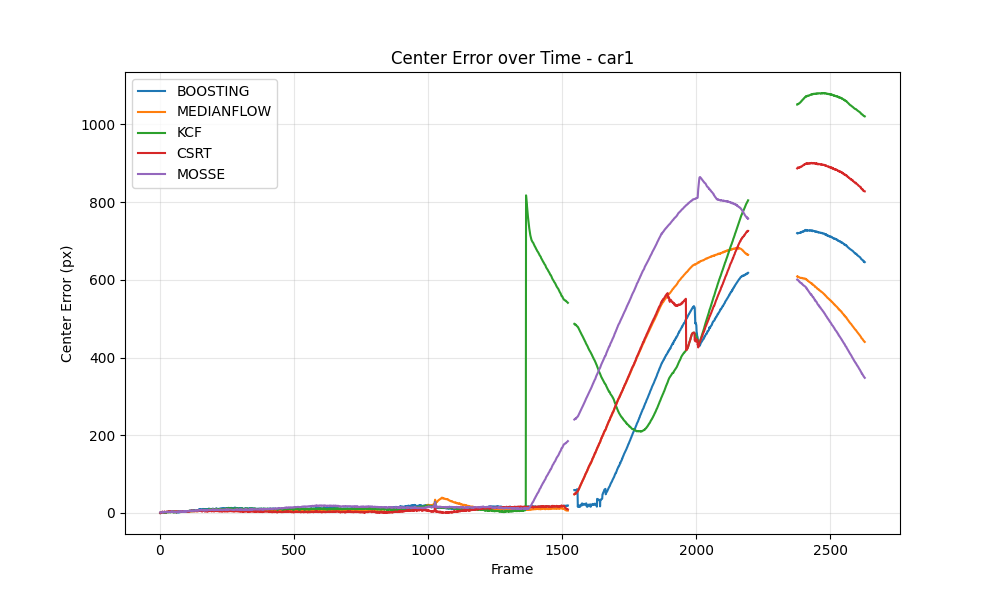
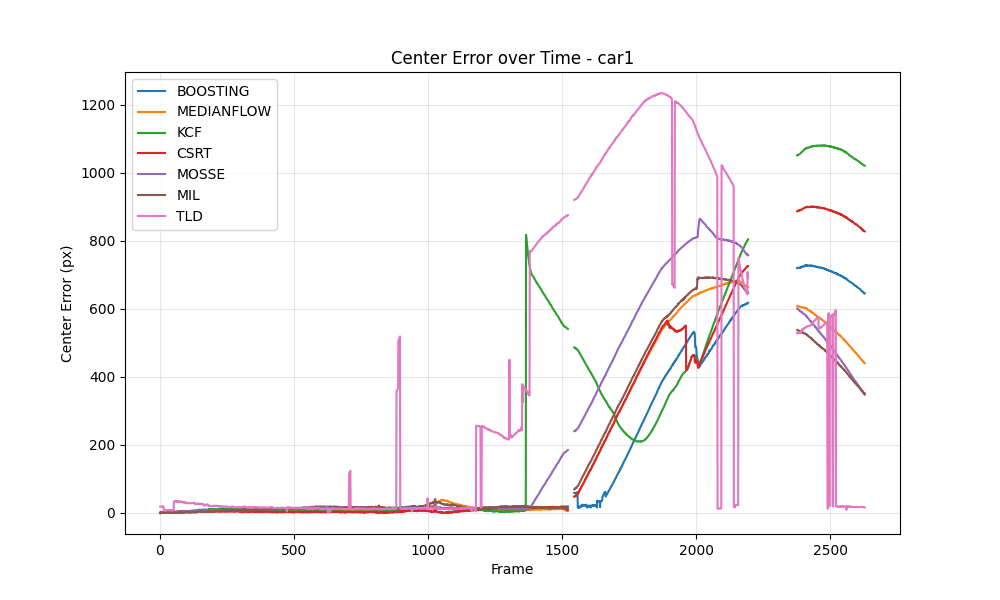
extensive tests ran

diff --git a/src/tracking/benchmark.py b/src/tracking/benchmark.py
@@ -15,7 +15,8 @@ SAVE_DETAILED_LOGS = False
 SCRIPT_DIR = os.path.dirname(os.path.abspath(__file__))
 PROJECT_ROOT = os.path.abspath(os.path.join(SCRIPT_DIR, '..', '..'))
 DATA_ROOT = os.path.join(PROJECT_ROOT, "data", "UAV123")
-ANNO_PATH = os.path.join(DATA_ROOT, "anno", "UAV123")
+ANNO_PATH_UAV123 = os.path.join(DATA_ROOT, "anno", "UAV123")
+ANNO_PATH_UAV20L = os.path.join(DATA_ROOT, "anno", "UAV20L")
 SEQ_PATH  = os.path.join(DATA_ROOT, "data_seq", "UAV123")
 OUTPUT_DIR = os.path.join(PROJECT_ROOT, "results")
 
@@ -71,10 +72,14 @@ def run_benchmark(seq_name, tracker_name):
     print(f"--- Processing {seq_name} : {tracker_name} ---")
     
     # 1. Load Data
-    anno_file = os.path.join(ANNO_PATH, f"{seq_name}.txt")
+    # Try UAV123 first
+    anno_file = os.path.join(ANNO_PATH_UAV123, f"{seq_name}.txt")
     if not os.path.exists(anno_file):
-        print(f"Missing annotation: {anno_file}")
-        return None
+        # Try UAV20L
+        anno_file = os.path.join(ANNO_PATH_UAV20L, f"{seq_name}.txt")
+        if not os.path.exists(anno_file):
+            print(f"Missing annotation: {anno_file} (checked UAV123 and UAV20L)")
+            return None
 
     gt_boxes = load_ground_truth(anno_file)
     img_folder = os.path.join(SEQ_PATH, seq_name)
@@ -177,12 +182,14 @@ def calculate_summary(df):
 
 if __name__ == "__main__":
     os.makedirs(OUTPUT_DIR, exist_ok=True)
-    
+    # skonczylo sie na car2 robic, trzeba dokonczyc od car3 zbieranie wynikow
+
     # Define which trackers and sequences to run
-    trackers_to_test = ["BOOSTING", "MEDIANFLOW", "KCF", "CSRT", "MOSSE", "TLD", "MIL"] 
+    trackers_to_test = ["BOOSTING", "MEDIANFLOW", "KCF", "CSRT", "MOSSE", "MIL", "TLD"] 
     # trackers_to_test = ["BOOSTING", "MEDIANFLOW", "MIL", "TLD"]
     
-    sequences_to_test = ["boat1", "car1", "car2", "car3", "car6", "car8", "person2", "person3", "truck1", "truck2", "truck3", "wakeboard1", "wakeboard2", "wakeboard3"] # Add more here, e.g. ["car1", "person1"]
+    sequences_to_test = ["car3", "car6", "car8", "person2", "person3", "truck1", "truck2", "truck3", "wakeboard1", "wakeboard2", "wakeboard3"] # Add more here, e.g. ["car1", "person1"]
+    # sequences_to_test = ["car1"] # Add more here, e.g. ["car1", "person1"]
     
     all_frame_results = []
     summary_results = []
